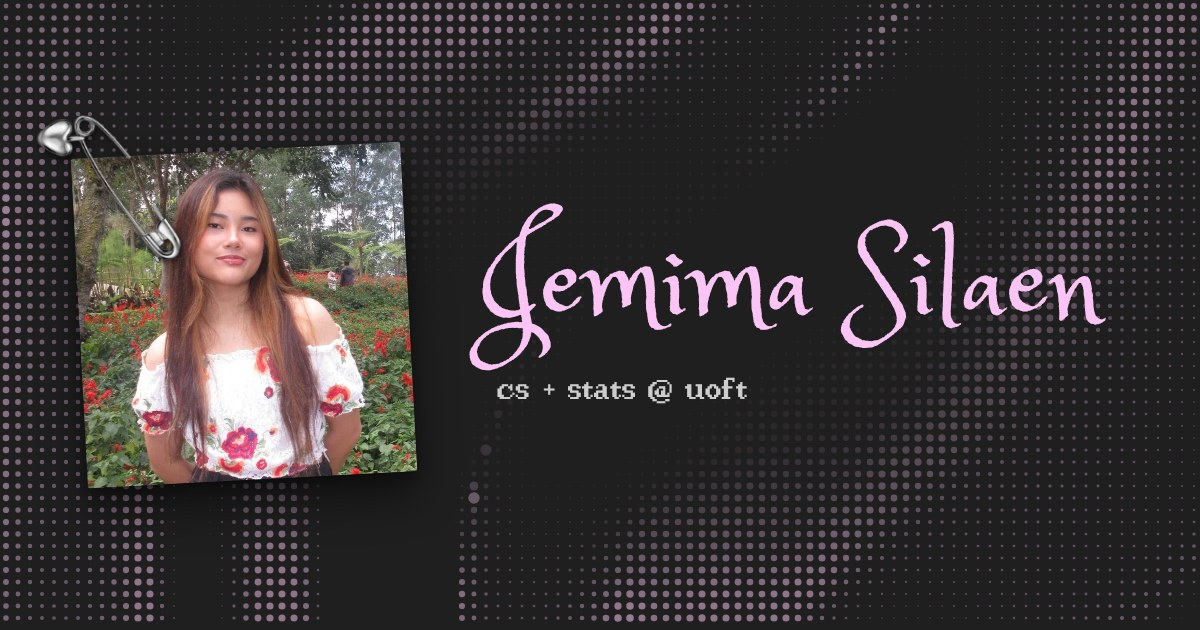
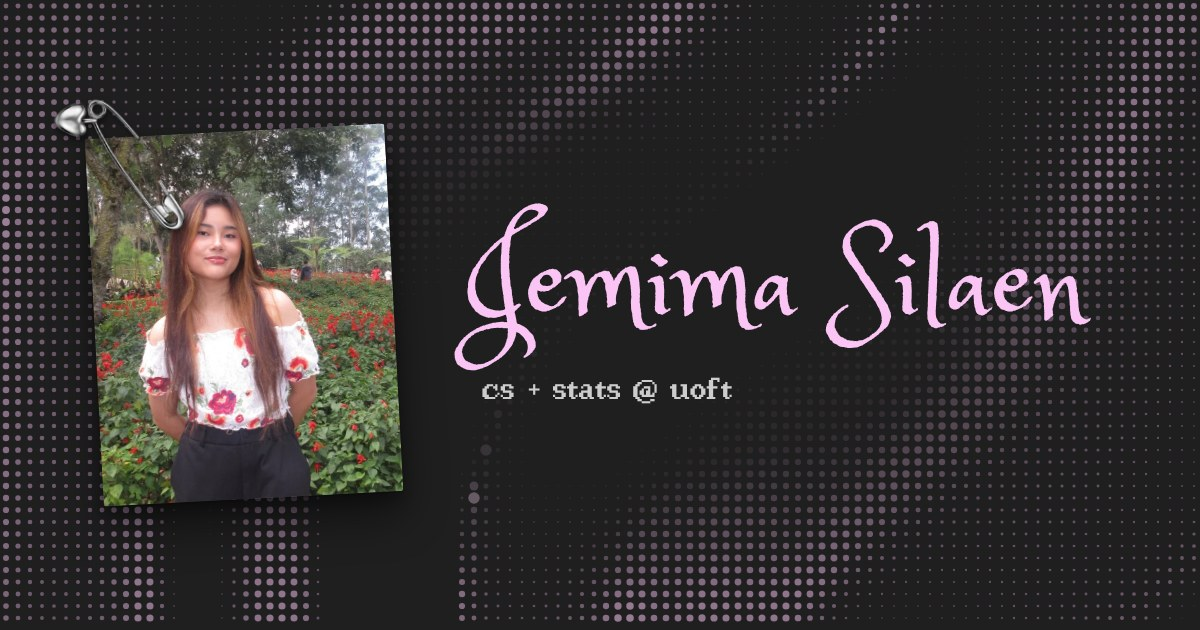
fixed crop

Changed region(s): [[0.0308, 0.1508, 0.925, 0.8143]]

diff --git a/index.html b/index.html
@@ -54,7 +54,7 @@
 
     <div class="hero__content" id="heroContent">
       <figure class="pinned">
-        <img class="hero__photo" src="assets/profile.webp" alt="Portrait of Jemima Silaen" width="640" height="640" />
+        <img class="hero__photo" src="assets/profile.webp" alt="Portrait of Jemima Silaen" width="640" height="785" />
         <img class="pinned__pin" src="assets/safety-pin.png" alt="" width="373" height="400" />
       </figure>
       <div class="hero__text">

diff --git a/styles.css b/styles.css
@@ -166,7 +166,7 @@ p { margin: 0; }
   display: block;
   width: 100%;
   height: auto;
-  aspect-ratio: 1;
+  aspect-ratio: 960 / 1177;
   object-fit: cover;
   border-radius: 2px;
   box-shadow:
@@ -186,7 +186,7 @@ p { margin: 0; }
   position: absolute;
   width: 42%;
   height: auto;
-  top: -13%;
+  top: -10.6%;
   left: -10%;
   transform: rotate(0deg);
   transform-origin: 20% 10%;
